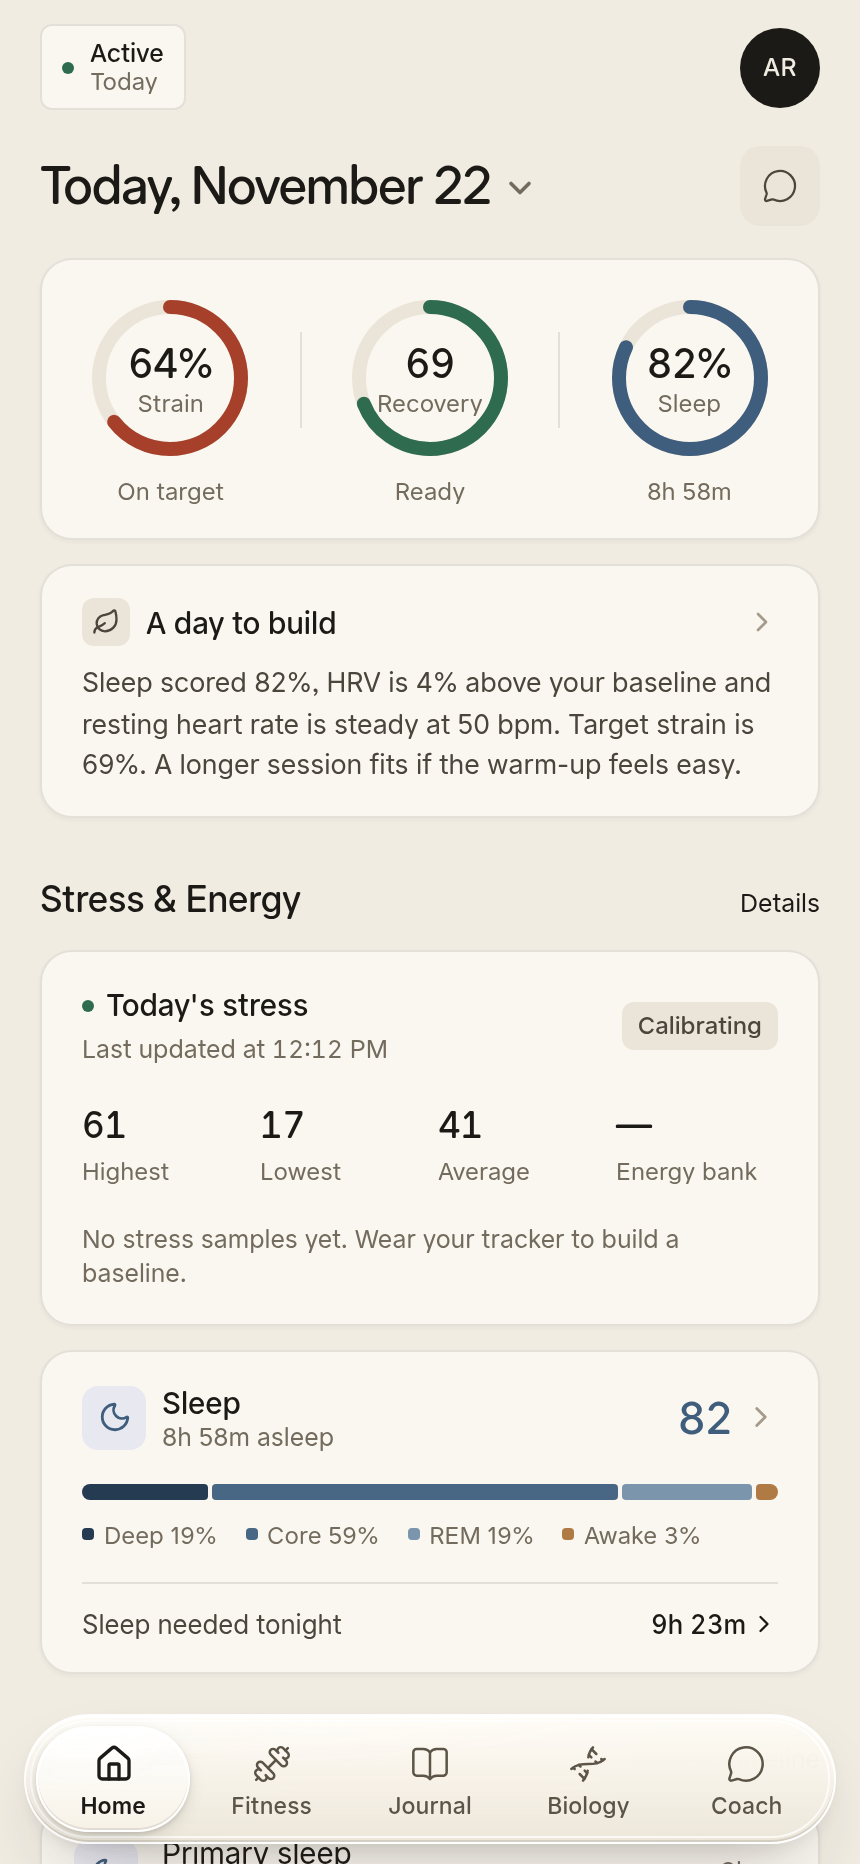
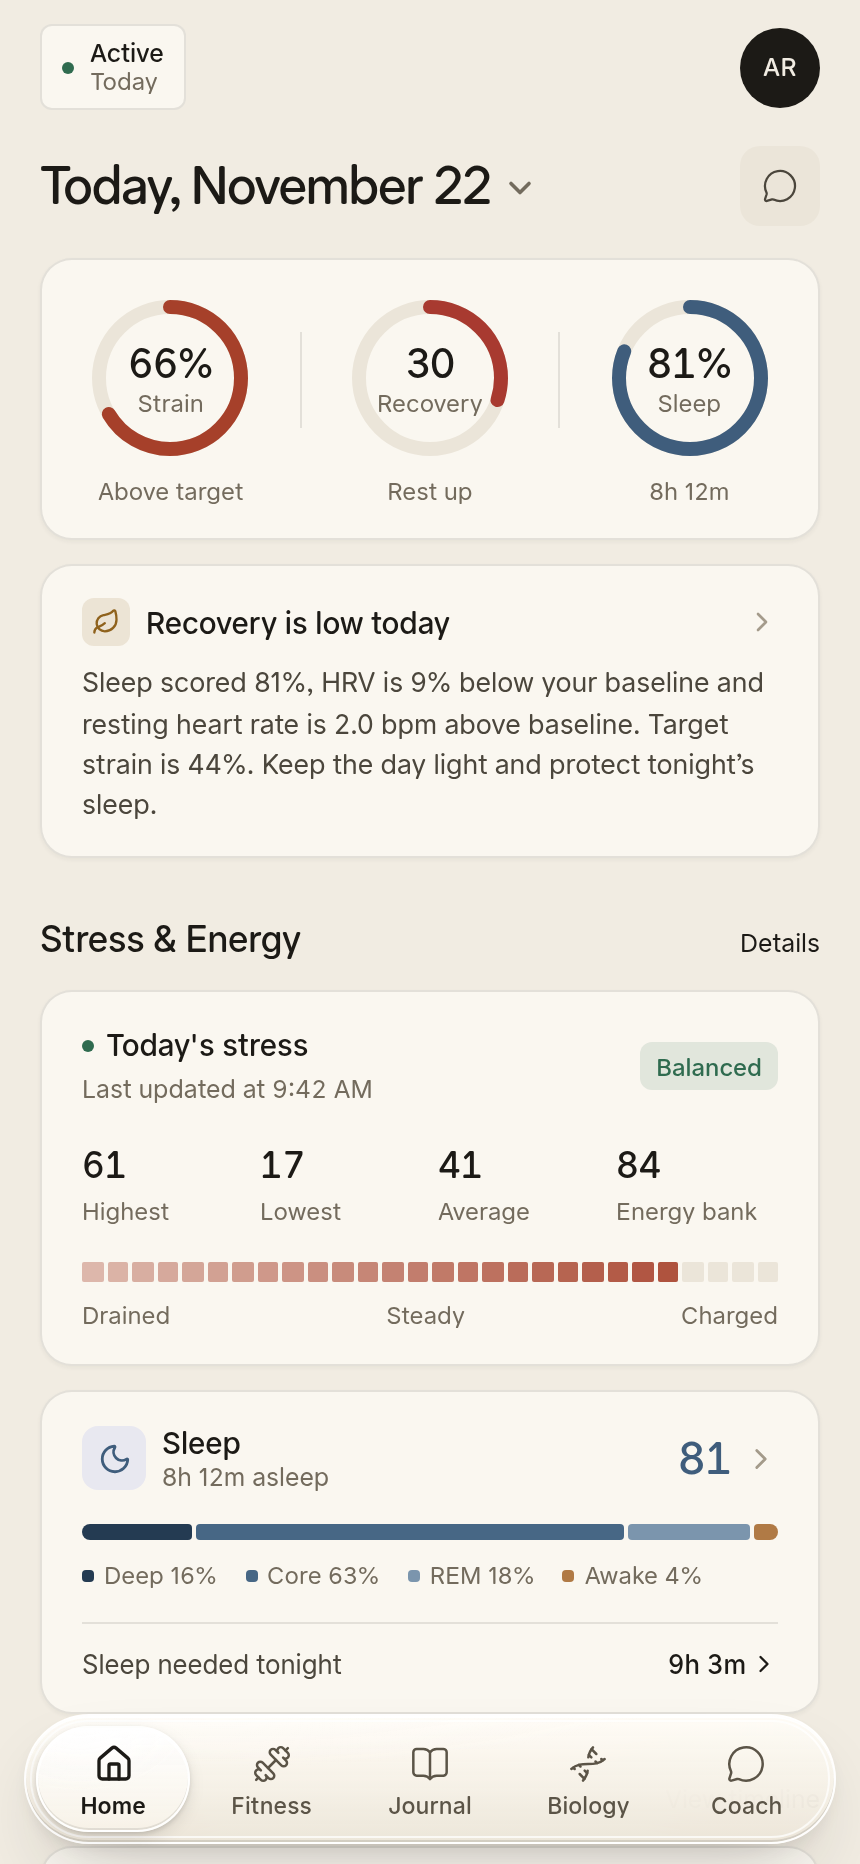
Point the README hero at a real screenshot
hero.png was a hand-built composite of the old demo data, so it went out with
the demo dataset. The Home screenshot replaces it.

diff --git a/README.md b/README.md
@@ -19,7 +19,7 @@ Bene calculates recovery, sleep, strain, training load, nutrition, journaling an
 
 > **Licence.** Bene is free for personal, research and other noncommercial use. Commercial use needs a separate paid licence. See [COMMERCIAL.md](COMMERCIAL.md).
 
-![Home, Recovery, Sleep and Biology](docs/screenshots/hero.png)
+![Home](docs/screenshots/home.png)
 
 ## Why this exists
 
